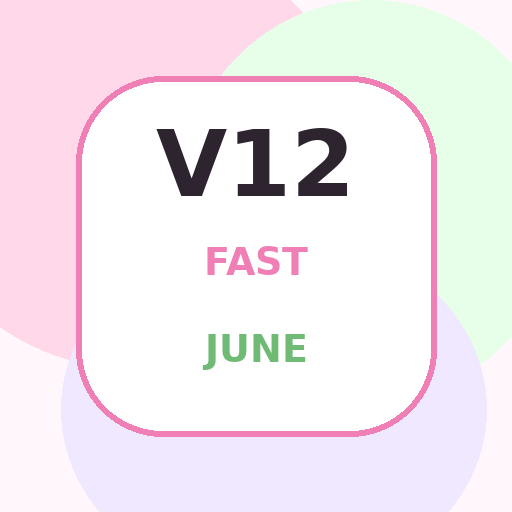
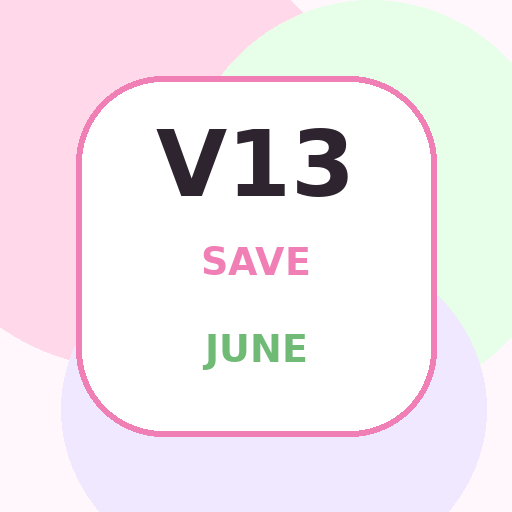
Initial Health Dashboard V13

Changed region(s): [[0.375, 0.4688, 0.5938, 0.5625], [0.5625, 0.25, 0.6875, 0.4062]]

diff --git a/service-worker.js b/service-worker.js
@@ -1,4 +1,4 @@
-const CACHE_NAME='june-health-v12-convenient';
+const CACHE_NAME='june-health-v13-autosave';
 const ASSETS=['./','./index.html','./manifest.webmanifest','./icons/icon-192.png','./icons/icon-512.png','./icons/apple-touch-icon.png'];
 self.addEventListener('install',e=>{e.waitUntil(caches.open(CACHE_NAME).then(c=>c.addAll(ASSETS)));self.skipWaiting();});
 self.addEventListener('activate',e=>{e.waitUntil(caches.keys().then(keys=>Promise.all(keys.map(k=>k!==CACHE_NAME?caches.delete(k):null))));self.clients.claim();});

diff --git a/README.md b/README.md
@@ -1,3 +1,3 @@
-# V12
+# V13
 
-Календарь сверху, затем ежедневные отметки, затем еда, потом аналитика и правила.
+Добавлено автосохранение, восстановление выбранного дня и backup/export/import.
